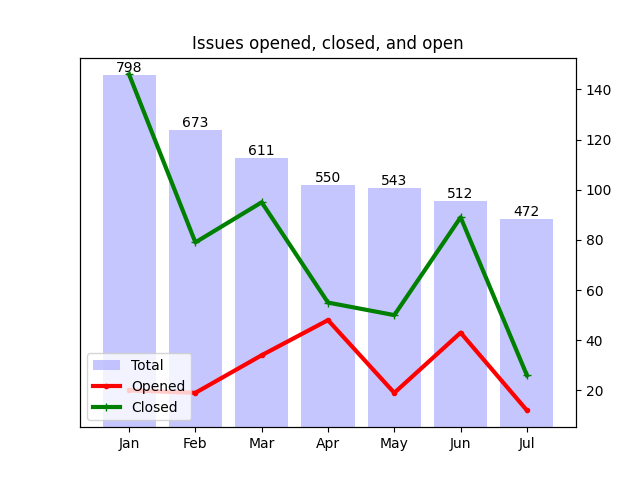
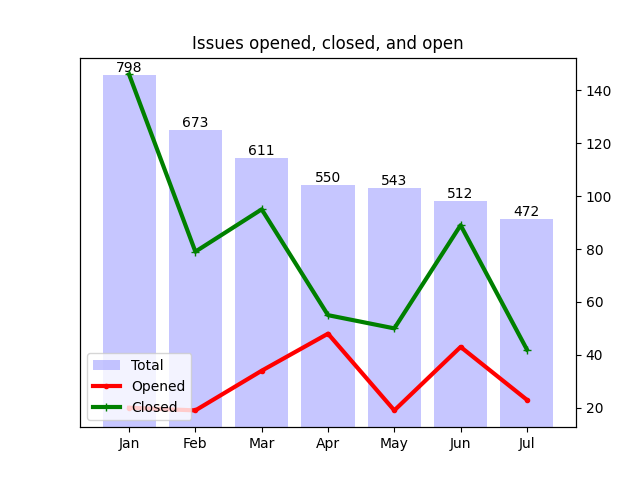
Apply automatic changes

diff --git a/docs/analytics.html b/docs/analytics.html
@@ -99,8 +99,8 @@ td .material-icons { display:inline-flex; vertical-align: top; font-size:1.1rem;
 						</tr>
 						<tr>
 							<td>Jul</td>
-							<td>12</td>
-							<td>26</td>
+							<td>23</td>
+							<td>42</td>
 						</tr>
 					</table>
 				</div>
@@ -138,7 +138,7 @@ td .material-icons { display:inline-flex; vertical-align: top; font-size:1.1rem;
 							<td>
 								<a href="http://github.com/notofonts/nastaliq/issues">nastaliq</a>
 							</td>
-							<td>20</td>
+							<td>14</td>
 						</tr>
 						<tr>
 							<td>
@@ -148,13 +148,13 @@ td .material-icons { display:inline-flex; vertical-align: top; font-size:1.1rem;
 						</tr>
 						<tr>
 							<td>
-								<a href="http://github.com/notofonts/kannada/issues">kannada</a>
+								<a href="http://github.com/notofonts/khojki/issues">khojki</a>
 							</td>
-							<td>11</td>
+							<td>12</td>
 						</tr>
 						<tr>
 							<td>
-								<a href="http://github.com/notofonts/khojki/issues">khojki</a>
+								<a href="http://github.com/notofonts/kannada/issues">kannada</a>
 							</td>
 							<td>11</td>
 						</tr>
@@ -166,15 +166,15 @@ td .material-icons { display:inline-flex; vertical-align: top; font-size:1.1rem;
 						</tr>
 						<tr>
 							<td>
-								<a href="http://github.com/notofonts/balinese/issues">balinese</a>
+								<a href="http://github.com/notofonts/tirhuta/issues">tirhuta</a>
 							</td>
 							<td>10</td>
 						</tr>
 						<tr>
 							<td>
-								<a href="http://github.com/notofonts/tirhuta/issues">tirhuta</a>
+								<a href="http://github.com/notofonts/math/issues">math</a>
 							</td>
-							<td>10</td>
+							<td>9</td>
 						</tr>
 					</table>
 				</div>
@@ -191,31 +191,31 @@ td .material-icons { display:inline-flex; vertical-align: top; font-size:1.1rem;
 				<tr>
 					<td>1</td>
 					<td>
-						<a href="http://github.com/notofonts/bamum/issues">bamum</a>,  						<a href="http://github.com/notofonts/brahmi/issues">brahmi</a>,  						<a href="http://github.com/notofonts/canadian-aboriginal/issues">canadian-aboriginal</a>,  						<a href="http://github.com/notofonts/coptic/issues">coptic</a>,  						<a href="http://github.com/notofonts/deseret/issues">deseret</a>,  						<a href="http://github.com/notofonts/duployan/issues">duployan</a>,  						<a href="http://github.com/notofonts/elbasan/issues">elbasan</a>,  						<a href="http://github.com/notofonts/elymaic/issues">elymaic</a>,  						<a href="http://github.com/notofonts/georgian/issues">georgian</a>,  						<a href="http://github.com/notofonts/gunjala-gondi/issues">gunjala-gondi</a>,  						<a href="http://github.com/notofonts/hanunoo/issues">hanunoo</a>,  						<a href="http://github.com/notofonts/kharoshthi/issues">kharoshthi</a>,  						<a href="http://github.com/notofonts/khmer/issues">khmer</a>,  						<a href="http://github.com/notofonts/khudawadi/issues">khudawadi</a>,  						<a href="http://github.com/notofonts/lydian/issues">lydian</a>,  						<a href="http://github.com/notofonts/manichaean/issues">manichaean</a>,  						<a href="http://github.com/notofonts/meetei-mayek/issues">meetei-mayek</a>,  						<a href="http://github.com/notofonts/meroitic/issues">meroitic</a>,  						<a href="http://github.com/notofonts/miao/issues">miao</a>,  						<a href="http://github.com/notofonts/multani/issues">multani</a>,  						<a href="http://github.com/notofonts/nko/issues">nko</a>,  						<a href="http://github.com/notofonts/old-hungarian-ui/issues">old-hungarian-ui</a>,  						<a href="http://github.com/notofonts/old-italic/issues">old-italic</a>,  						<a href="http://github.com/notofonts/pahawh-hmong/issues">pahawh-hmong</a>,  						<a href="http://github.com/notofonts/rejang/issues">rejang</a>,  						<a href="http://github.com/notofonts/saurashtra/issues">saurashtra</a>,  						<a href="http://github.com/notofonts/sign-writing/issues">sign-writing</a>,  						<a href="http://github.com/notofonts/sogdian/issues">sogdian</a>,  						<a href="http://github.com/notofonts/tagalog/issues">tagalog</a>,  						<a href="http://github.com/notofonts/tai-le/issues">tai-le</a>,  						<a href="http://github.com/notofonts/tai-tham/issues">tai-tham</a>,  						<a href="http://github.com/notofonts/takri/issues">takri</a>,  						<a href="http://github.com/notofonts/tangsa/issues">tangsa</a>,  						<a href="http://github.com/notofonts/thai/issues">thai</a> 
+						<a href="http://github.com/notofonts/bamum/issues">bamum</a>,  						<a href="http://github.com/notofonts/brahmi/issues">brahmi</a>,  						<a href="http://github.com/notofonts/canadian-aboriginal/issues">canadian-aboriginal</a>,  						<a href="http://github.com/notofonts/cham/issues">cham</a>,  						<a href="http://github.com/notofonts/coptic/issues">coptic</a>,  						<a href="http://github.com/notofonts/deseret/issues">deseret</a>,  						<a href="http://github.com/notofonts/duployan/issues">duployan</a>,  						<a href="http://github.com/notofonts/elbasan/issues">elbasan</a>,  						<a href="http://github.com/notofonts/elymaic/issues">elymaic</a>,  						<a href="http://github.com/notofonts/georgian/issues">georgian</a>,  						<a href="http://github.com/notofonts/gunjala-gondi/issues">gunjala-gondi</a>,  						<a href="http://github.com/notofonts/hanunoo/issues">hanunoo</a>,  						<a href="http://github.com/notofonts/kharoshthi/issues">kharoshthi</a>,  						<a href="http://github.com/notofonts/khmer/issues">khmer</a>,  						<a href="http://github.com/notofonts/khudawadi/issues">khudawadi</a>,  						<a href="http://github.com/notofonts/lydian/issues">lydian</a>,  						<a href="http://github.com/notofonts/manichaean/issues">manichaean</a>,  						<a href="http://github.com/notofonts/meetei-mayek/issues">meetei-mayek</a>,  						<a href="http://github.com/notofonts/meroitic/issues">meroitic</a>,  						<a href="http://github.com/notofonts/miao/issues">miao</a>,  						<a href="http://github.com/notofonts/multani/issues">multani</a>,  						<a href="http://github.com/notofonts/nko/issues">nko</a>,  						<a href="http://github.com/notofonts/old-hungarian-ui/issues">old-hungarian-ui</a>,  						<a href="http://github.com/notofonts/old-italic/issues">old-italic</a>,  						<a href="http://github.com/notofonts/pahawh-hmong/issues">pahawh-hmong</a>,  						<a href="http://github.com/notofonts/rejang/issues">rejang</a>,  						<a href="http://github.com/notofonts/saurashtra/issues">saurashtra</a>,  						<a href="http://github.com/notofonts/sign-writing/issues">sign-writing</a>,  						<a href="http://github.com/notofonts/sogdian/issues">sogdian</a>,  						<a href="http://github.com/notofonts/tai-le/issues">tai-le</a>,  						<a href="http://github.com/notofonts/tai-tham/issues">tai-tham</a>,  						<a href="http://github.com/notofonts/takri/issues">takri</a>,  						<a href="http://github.com/notofonts/tangsa/issues">tangsa</a>,  						<a href="http://github.com/notofonts/thai/issues">thai</a> 
 					</td>
 				</tr>
 				<tr>
 					<td>2</td>
 					<td>
-						<a href="http://github.com/notofonts/chorasmian/issues">chorasmian</a>,  						<a href="http://github.com/notofonts/dogra/issues">dogra</a>,  						<a href="http://github.com/notofonts/music/issues">music</a>,  						<a href="http://github.com/notofonts/old-turkic/issues">old-turkic</a>,  						<a href="http://github.com/notofonts/siddham/issues">siddham</a>,  						<a href="http://github.com/notofonts/sundanese/issues">sundanese</a>,  						<a href="http://github.com/notofonts/tamil/issues">tamil</a>,  						<a href="http://github.com/notofonts/tifinagh/issues">tifinagh</a> 
+						<a href="http://github.com/notofonts/chorasmian/issues">chorasmian</a>,  						<a href="http://github.com/notofonts/dogra/issues">dogra</a>,  						<a href="http://github.com/notofonts/music/issues">music</a>,  						<a href="http://github.com/notofonts/old-turkic/issues">old-turkic</a>,  						<a href="http://github.com/notofonts/siddham/issues">siddham</a>,  						<a href="http://github.com/notofonts/sundanese/issues">sundanese</a>,  						<a href="http://github.com/notofonts/tagalog/issues">tagalog</a>,  						<a href="http://github.com/notofonts/tamil/issues">tamil</a>,  						<a href="http://github.com/notofonts/tifinagh/issues">tifinagh</a> 
 					</td>
 				</tr>
 				<tr>
 					<td>3</td>
 					<td>
-						<a href="http://github.com/notofonts/ahom/issues">ahom</a>,  						<a href="http://github.com/notofonts/batak/issues">batak</a>,  						<a href="http://github.com/notofonts/caucasian-albanian/issues">caucasian-albanian</a>,  						<a href="http://github.com/notofonts/glagolitic/issues">glagolitic</a>,  						<a href="http://github.com/notofonts/sharada/issues">sharada</a>,  						<a href="http://github.com/notofonts/soyombo/issues">soyombo</a>,  						<a href="http://github.com/notofonts/telugu/issues">telugu</a> 
+						<a href="http://github.com/notofonts/ahom/issues">ahom</a>,  						<a href="http://github.com/notofonts/balinese/issues">balinese</a>,  						<a href="http://github.com/notofonts/batak/issues">batak</a>,  						<a href="http://github.com/notofonts/caucasian-albanian/issues">caucasian-albanian</a>,  						<a href="http://github.com/notofonts/glagolitic/issues">glagolitic</a>,  						<a href="http://github.com/notofonts/sharada/issues">sharada</a>,  						<a href="http://github.com/notofonts/soyombo/issues">soyombo</a>,  						<a href="http://github.com/notofonts/telugu/issues">telugu</a> 
 					</td>
 				</tr>
 				<tr>
 					<td>4</td>
 					<td>
-						<a href="http://github.com/notofonts/armenian/issues">armenian</a>,  						<a href="http://github.com/notofonts/gurmukhi/issues">gurmukhi</a>,  						<a href="http://github.com/notofonts/javanese/issues">javanese</a>,  						<a href="http://github.com/notofonts/kawi/issues">kawi</a>,  						<a href="http://github.com/notofonts/modi/issues">modi</a>,  						<a href="http://github.com/notofonts/nandinagari/issues">nandinagari</a>,  						<a href="http://github.com/notofonts/syriac/issues">syriac</a>,  						<a href="http://github.com/notofonts/tibetan/issues">tibetan</a> 
+						<a href="http://github.com/notofonts/armenian/issues">armenian</a>,  						<a href="http://github.com/notofonts/javanese/issues">javanese</a>,  						<a href="http://github.com/notofonts/modi/issues">modi</a>,  						<a href="http://github.com/notofonts/nandinagari/issues">nandinagari</a>,  						<a href="http://github.com/notofonts/syriac/issues">syriac</a>,  						<a href="http://github.com/notofonts/tibetan/issues">tibetan</a> 
 					</td>
 				</tr>
 				<tr>
 					<td>5</td>
 					<td>
-						<a href="http://github.com/notofonts/bengali/issues">bengali</a>,  						<a href="http://github.com/notofonts/bhaiksuki/issues">bhaiksuki</a>,  						<a href="http://github.com/notofonts/syloti-nagri/issues">syloti-nagri</a> 
+						<a href="http://github.com/notofonts/bengali/issues">bengali</a>,  						<a href="http://github.com/notofonts/bhaiksuki/issues">bhaiksuki</a>,  						<a href="http://github.com/notofonts/gurmukhi/issues">gurmukhi</a>,  						<a href="http://github.com/notofonts/syloti-nagri/issues">syloti-nagri</a> 
 					</td>
 				</tr>
 				<tr>
@@ -227,13 +227,13 @@ td .material-icons { display:inline-flex; vertical-align: top; font-size:1.1rem;
 				<tr>
 					<td>7</td>
 					<td>
-						<a href="http://github.com/notofonts/devanagari/issues">devanagari</a>,  						<a href="http://github.com/notofonts/oriya/issues">oriya</a> 
+						<a href="http://github.com/notofonts/kawi/issues">kawi</a>,  						<a href="http://github.com/notofonts/oriya/issues">oriya</a> 
 					</td>
 				</tr>
 				<tr>
 					<td>8</td>
 					<td>
-						<a href="http://github.com/notofonts/malayalam/issues">malayalam</a> 
+						<a href="http://github.com/notofonts/devanagari/issues">devanagari</a>,  						<a href="http://github.com/notofonts/malayalam/issues">malayalam</a> 
 					</td>
 				</tr>
 				<tr>
@@ -245,7 +245,7 @@ td .material-icons { display:inline-flex; vertical-align: top; font-size:1.1rem;
 				<tr>
 					<td>10</td>
 					<td>
-						<a href="http://github.com/notofonts/balinese/issues">balinese</a>,  						<a href="http://github.com/notofonts/tirhuta/issues">tirhuta</a> 
+						<a href="http://github.com/notofonts/tirhuta/issues">tirhuta</a> 
 					</td>
 				</tr>
 			</table>
@@ -264,15 +264,15 @@ td .material-icons { display:inline-flex; vertical-align: top; font-size:1.1rem;
 
 									<a href="http://github.com/notofonts/arabic/issues">arabic</a>: 20, 
 
-									<a href="http://github.com/notofonts/nastaliq/issues">nastaliq</a>: 20, 
+									<a href="http://github.com/notofonts/nastaliq/issues">nastaliq</a>: 14, 
 
 									<a href="http://github.com/notofonts/gujarati/issues">gujarati</a>: 13, 
 
 									<a href="http://github.com/notofonts/kannada/issues">kannada</a>: 11, 
 
-									<a href="http://github.com/notofonts/malayalam/issues">malayalam</a>: 8, 
+									<a href="http://github.com/notofonts/devanagari/issues">devanagari</a>: 8, 
 
-									<a href="http://github.com/notofonts/devanagari/issues">devanagari</a>: 7, 
+									<a href="http://github.com/notofonts/malayalam/issues">malayalam</a>: 8, 
 
 									<a href="http://github.com/notofonts/oriya/issues">oriya</a>: 7, 
 
@@ -280,9 +280,9 @@ td .material-icons { display:inline-flex; vertical-align: top; font-size:1.1rem;
 
 									<a href="http://github.com/notofonts/bengali/issues">bengali</a>: 5, 
 
-									<a href="http://github.com/notofonts/armenian/issues">armenian</a>: 4, 
+									<a href="http://github.com/notofonts/gurmukhi/issues">gurmukhi</a>: 5, 
 
-									<a href="http://github.com/notofonts/gurmukhi/issues">gurmukhi</a>: 4, 
+									<a href="http://github.com/notofonts/armenian/issues">armenian</a>: 4, 
 
 									<a href="http://github.com/notofonts/telugu/issues">telugu</a>: 3, 
 
@@ -294,7 +294,7 @@ td .material-icons { display:inline-flex; vertical-align: top; font-size:1.1rem;
 							<td>
 									<a href="http://github.com/notofonts/myanmar/issues">myanmar</a>: 32, 
 
-									<a href="http://github.com/notofonts/balinese/issues">balinese</a>: 10, 
+									<a href="http://github.com/notofonts/balinese/issues">balinese</a>: 3, 
 
 									<a href="http://github.com/notofonts/georgian/issues">georgian</a>: 1, 
 
@@ -306,7 +306,7 @@ td .material-icons { display:inline-flex; vertical-align: top; font-size:1.1rem;
 						<tr>
 							<td>3</td>
 							<td>
-									<a href="http://github.com/notofonts/khojki/issues">khojki</a>: 11, 
+									<a href="http://github.com/notofonts/khojki/issues">khojki</a>: 12, 
 
 									<a href="http://github.com/notofonts/mongolian/issues">mongolian</a>: 11, 
 
@@ -334,11 +334,15 @@ td .material-icons { display:inline-flex; vertical-align: top; font-size:1.1rem;
 
 									<a href="http://github.com/notofonts/sundanese/issues">sundanese</a>: 2, 
 
+									<a href="http://github.com/notofonts/tagalog/issues">tagalog</a>: 2, 
+
 									<a href="http://github.com/notofonts/tifinagh/issues">tifinagh</a>: 2, 
 
 									<a href="http://github.com/notofonts/bamum/issues">bamum</a>: 1, 
 
 									<a href="http://github.com/notofonts/canadian-aboriginal/issues">canadian-aboriginal</a>: 1, 
+
+									<a href="http://github.com/notofonts/cham/issues">cham</a>: 1, 
 
 									<a href="http://github.com/notofonts/coptic/issues">coptic</a>: 1, 
 
@@ -364,8 +368,6 @@ td .material-icons { display:inline-flex; vertical-align: top; font-size:1.1rem;
 
 									<a href="http://github.com/notofonts/sign-writing/issues">sign-writing</a>: 1, 
 
-									<a href="http://github.com/notofonts/tagalog/issues">tagalog</a>: 1, 
-
 									<a href="http://github.com/notofonts/tai-le/issues">tai-le</a>: 1, 
 
 									<a href="http://github.com/notofonts/tai-tham/issues">tai-tham</a>: 1, 
@@ -380,13 +382,13 @@ td .material-icons { display:inline-flex; vertical-align: top; font-size:1.1rem;
 							<td>
 									<a href="http://github.com/notofonts/tirhuta/issues">tirhuta</a>: 10, 
 
+									<a href="http://github.com/notofonts/kawi/issues">kawi</a>: 7, 
+
 									<a href="http://github.com/notofonts/egyptian-hieroglyphs/issues">egyptian-hieroglyphs</a>: 6, 
 
 									<a href="http://github.com/notofonts/kaithi/issues">kaithi</a>: 6, 
 
 									<a href="http://github.com/notofonts/old-hungarian/issues">old-hungarian</a>: 6, 
-
-									<a href="http://github.com/notofonts/kawi/issues">kawi</a>: 4, 
 
 									<a href="http://github.com/notofonts/ahom/issues">ahom</a>: 3, 
 
